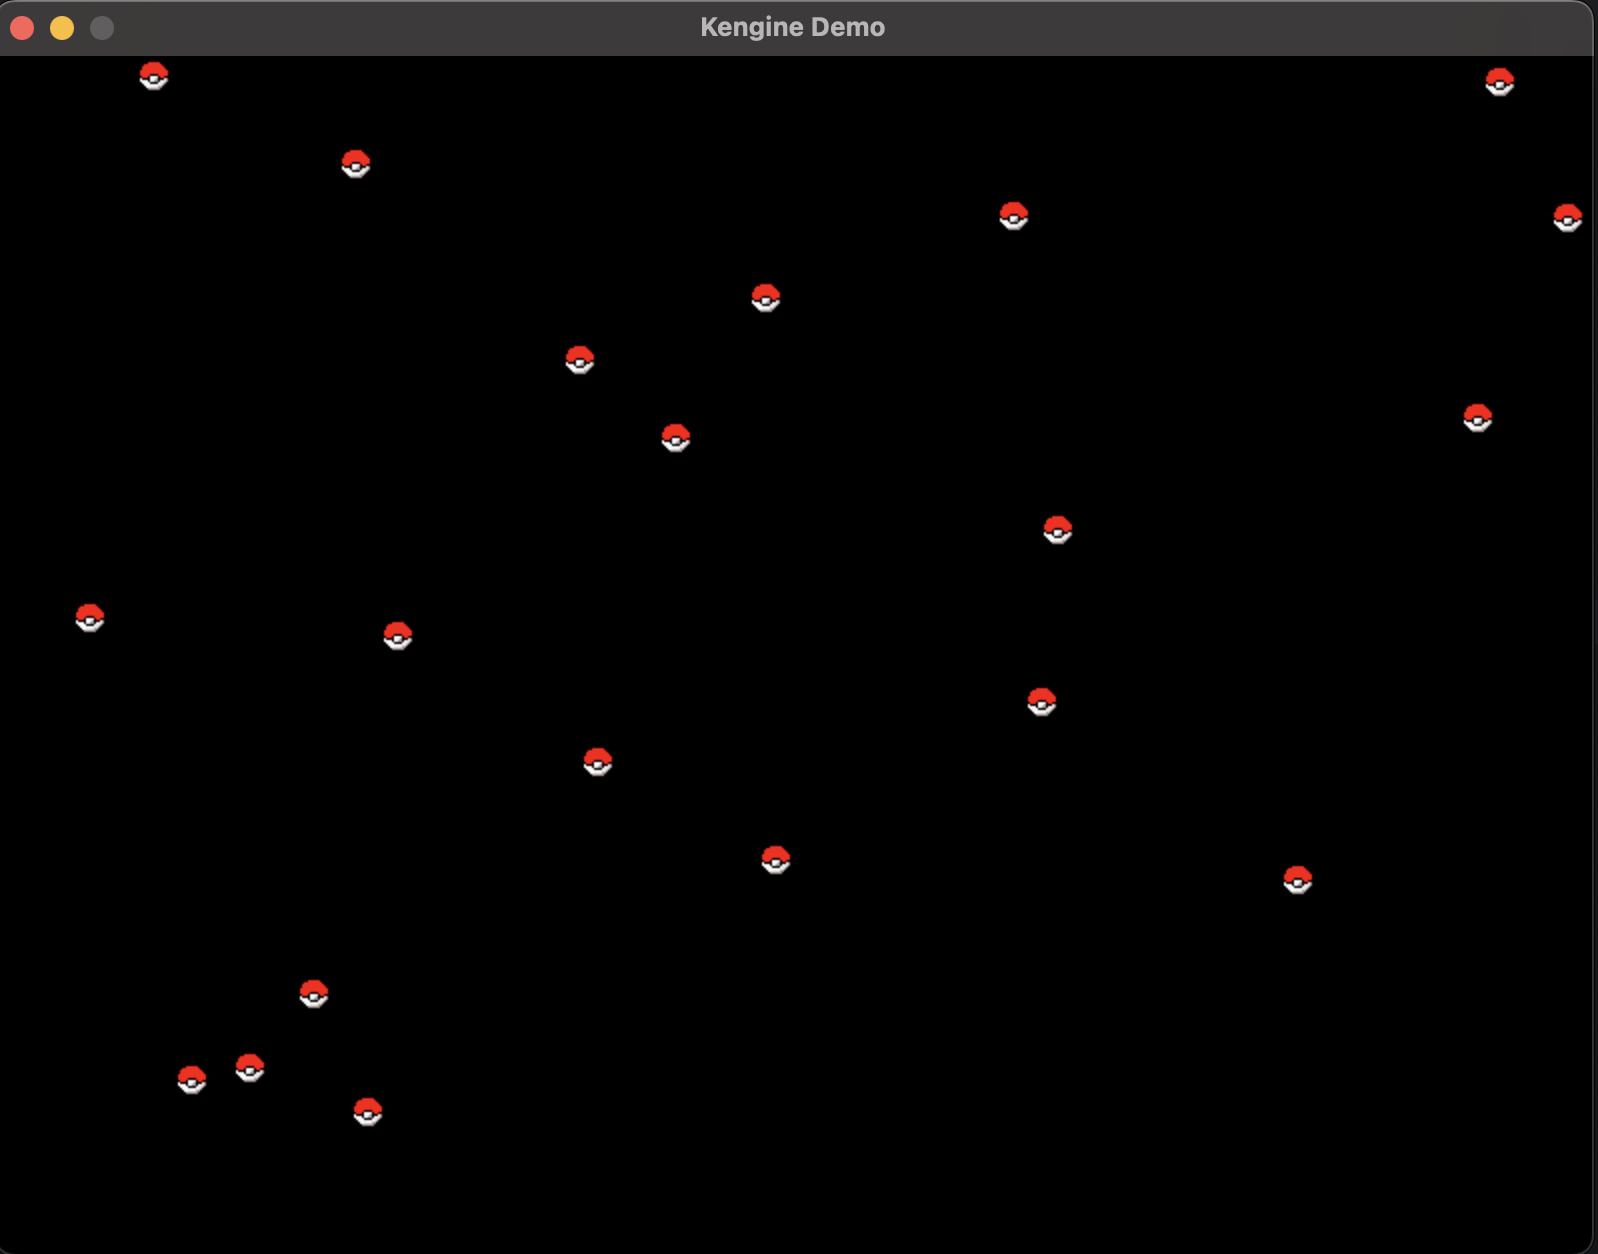
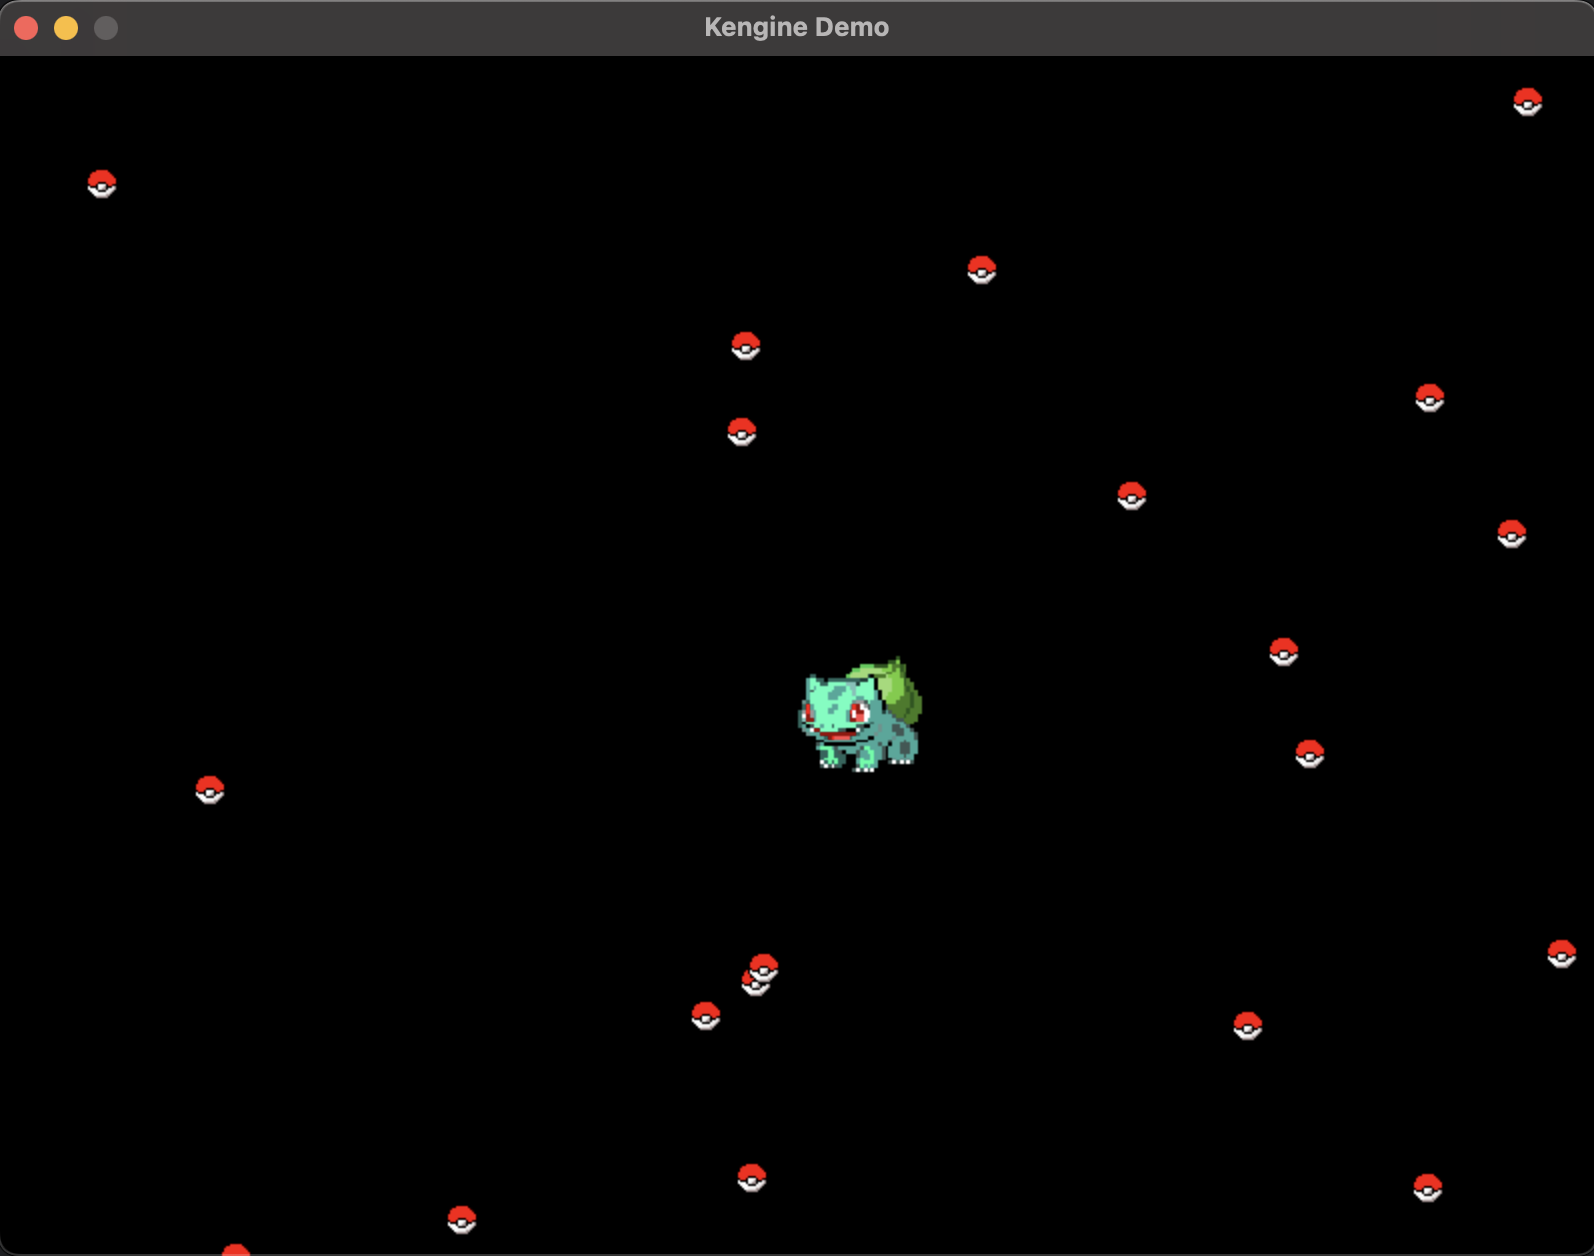
start keyboard controller

diff --git a/src/nativeMain/kotlin/com/kengine/input/KeyboardController.kt b/src/nativeMain/kotlin/com/kengine/input/KeyboardController.kt
@@ -1,0 +1,93 @@
+package com.kengine.input
+
+import kotlinx.cinterop.alloc
+import kotlinx.cinterop.memScoped
+import kotlinx.cinterop.ptr
+import sdl2.SDLK_DOWN
+import sdl2.SDLK_LEFT
+import sdl2.SDLK_RIGHT
+import sdl2.SDLK_UP
+import sdl2.SDLK_a
+import sdl2.SDLK_b
+import sdl2.SDL_Event
+import sdl2.SDL_GetTicks
+import sdl2.SDL_KEYDOWN
+import sdl2.SDL_KEYUP
+import sdl2.SDL_KeyCode
+import sdl2.SDL_PollEvent
+import sdl2.SDL_QUIT
+import sdl2.SDL_Quit
+
+class KeyboardController {
+    private val keyStates = mutableMapOf<Int, KeyState>()
+
+    data class KeyState(
+        var isPressed: Boolean = false,
+        var lastPressedTime: UInt = 0u
+    )
+
+    // update the key states based on SDL events
+    fun update() {
+        memScoped {
+            // TODO consolidate event handling, and then components will subscribe to events.
+            // this is needed so GameLoop can also receive the SDL_Quit event and gracefully shutdown
+            val event = alloc<SDL_Event>()
+            while (SDL_PollEvent(event.ptr) != 0) {
+                when (event.type) {
+                    SDL_KEYDOWN -> {
+                        val key = event.key.keysym.sym
+                        if (!keyStates.containsKey(key)) {
+                            keyStates[key] = KeyState()
+                        }
+                        keyStates[key]?.apply {
+                            isPressed = true
+                            lastPressedTime = SDL_GetTicks()
+                        }
+                    }
+
+                    SDL_KEYUP -> {
+                        val key = event.key.keysym.sym
+                        keyStates[key]?.isPressed = false
+                    }
+
+                    SDL_QUIT -> {
+                        println("Quit event received")
+                        SDL_Quit()
+                    }
+                }
+            }
+        }
+    }
+
+    /**
+     * check if a specific key is currently pressed
+     */
+    fun isKeyPressed(keyCode: SDL_KeyCode): Boolean {
+        return keyStates[keyCode.toInt()]?.isPressed ?: false
+    }
+
+    /**
+     * check how much time has passed since a key was last pressed
+     */
+    fun timeSinceKeyPressed(keyCode: SDL_KeyCode): UInt {
+        val currentTime = SDL_GetTicks()
+        return keyStates[keyCode.toInt()]?.let {
+            if (it.isPressed) 0u else currentTime - it.lastPressedTime
+        } ?: UInt.MAX_VALUE // TODO confirm if I want to return this
+    }
+
+    // convenience functions for specific keys
+    fun isUpPressed() = isKeyPressed(SDLK_UP)
+    fun isDownPressed() = isKeyPressed(SDLK_DOWN)
+    fun isLeftPressed() = isKeyPressed(SDLK_LEFT)
+    fun isRightPressed() = isKeyPressed(SDLK_RIGHT)
+    fun isAPressed() = isKeyPressed(SDLK_a)
+    fun isBPressed() = isKeyPressed(SDLK_b)
+
+    fun timeSinceUpPressed() = timeSinceKeyPressed(SDLK_UP)
+    fun timeSinceDownPressed() = timeSinceKeyPressed(SDLK_DOWN)
+    fun timeSinceLeftPressed() = timeSinceKeyPressed(SDLK_LEFT)
+    fun timeSinceRightPressed() = timeSinceKeyPressed(SDLK_RIGHT)
+    fun timeSinceAPressed() = timeSinceKeyPressed(SDLK_a)
+    fun timeSinceBPressed() = timeSinceKeyPressed(SDLK_b)
+}

diff --git a/src/nativeMain/kotlin/GameScreen.kt b/src/nativeMain/kotlin/GameScreen.kt
@@ -1,5 +1,6 @@
 
 import com.kengine.graphics.Sprite
+import com.kengine.input.KeyboardController
 import com.kengine.sdl.SDLContext
 import sdl2.SDL_RenderClear
 import sdl2.SDL_RenderPresent
@@ -8,9 +9,19 @@ import kotlin.random.Random
 
 class GameScreen {
     val sdlContext = SDLContext.get()
+    private val keyboardController = KeyboardController()
+
+    private val bulbasaurSprite = Sprite("images/bulbasaur.bmp")
+    private val bulbasaur = Entity(
+        x = (sdlContext.screenWidth / 2 - bulbasaurSprite.width / 2).toDouble(),
+        y = (sdlContext.screenHeight / 2 - bulbasaurSprite.height / 2).toDouble(),
+        vx = 0.0,
+        vy = 0.0
+    )
+
     private val pokeballSprite = Sprite("images/pokeball.bmp")
     private val pokeballs = List(size = 20) {
-        Pokeball(
+        Entity(
             x = Random.nextInt(0, sdlContext.screenWidth - pokeballSprite.width).toDouble(),
             y = Random.nextInt(0, sdlContext.screenHeight - pokeballSprite.height).toDouble(),
             vx = 100.0 * if (Random.nextBoolean()) 1 else -1,
@@ -29,6 +40,26 @@ class GameScreen {
                 it.vy *= -1
             }
         }
+
+        bulbasaur.vx *= 0.9
+        bulbasaur.vy *= 0.9
+
+        keyboardController.update()
+        if (keyboardController.isLeftPressed()) {
+            bulbasaur.vx = -10.0
+        }
+        if (keyboardController.isRightPressed()) {
+            bulbasaur.vx = 10.0
+        }
+        if (keyboardController.isUpPressed()) {
+            bulbasaur.vy = -10.0
+        }
+        if (keyboardController.isDownPressed()) {
+            bulbasaur.vy = 10.0
+        }
+
+        bulbasaur.x += bulbasaur.vx
+        bulbasaur.y += bulbasaur.vy
     }
 
     fun draw(delta: Double) {
@@ -40,15 +71,18 @@ class GameScreen {
             pokeballSprite.draw(it.x, it.y)
         }
 
+        bulbasaurSprite.draw(bulbasaur.x, bulbasaur.y)
+
         // render to screen
         SDL_RenderPresent(sdlContext.renderer)
     }
 
     fun cleanup() {
+        bulbasaurSprite.cleanup()
         pokeballSprite.cleanup()
     }
 
-    data class Pokeball(
+    data class Entity(
         var x: Double,
         var y: Double,
         var vx: Double,

diff --git a/src/nativeMain/kotlin/com/kengine/GameLoop.kt b/src/nativeMain/kotlin/com/kengine/GameLoop.kt
@@ -1,43 +1,26 @@
 package com.kengine
 
-import kotlinx.cinterop.alloc
-import kotlinx.cinterop.memScoped
-import kotlinx.cinterop.ptr
 import sdl2.SDL_Delay
-import sdl2.SDL_Event
 import sdl2.SDL_GetTicks
-import sdl2.SDL_PollEvent
-import sdl2.SDL_QUIT
 
 class GameLoop(
     val frameRate: Int,
-    private val gameLoop: (delta: Double) -> Unit
+    update: (delta: Double) -> Unit
 ) {
     private var running = true
 
     init {
         val frameDelay = 1000.0 / frameRate
+        while (running) {
+            val frameStart = SDL_GetTicks()
+            val frameDelayRatio = frameDelay / 1000.0
 
-        memScoped {
-            val event = alloc<SDL_Event>()
-            while (running) {
-                val frameStart = SDL_GetTicks()
+            update(frameDelayRatio) // TODO update to actual time between last frame (some will be shorter/longer than frameDelay)
 
-                // poll SDL events TODO should I centralize event polling?
-                while (SDL_PollEvent(event.ptr) != 0) {
-                    if (event.type == SDL_QUIT) {
-                        running = false
-                    }
-                }
-
-                val frameDelayRatio = frameDelay / 1000.0
-                gameLoop(frameDelayRatio) // TODO update to actual time between last frame (some will be shorter/longer than frameDelay)
-
-                // cap frame rate
-                val frameTime = (SDL_GetTicks() - frameStart).toDouble()
-                if (frameDelay > frameTime) {
-                    SDL_Delay((frameDelay - frameTime).toUInt())
-                }
+            // cap frame rate
+            val frameTime = (SDL_GetTicks() - frameStart).toDouble()
+            if (frameDelay > frameTime) {
+                SDL_Delay((frameDelay - frameTime).toUInt())
             }
         }
     }

diff --git a/README.md b/README.md
@@ -4,6 +4,8 @@ A light game library in Kotlin Native + SDL
 
 ### GameLauncher.kt
 
+Press Up, Down, Left, Right keys to move Bulbasaur while the Pokeballs bounce around in the background.
+
 ```kotlin
 fun main() {
     val sdlContext = SDLContext.create(title = "Kengine Demo", width = 800, height = 600)
